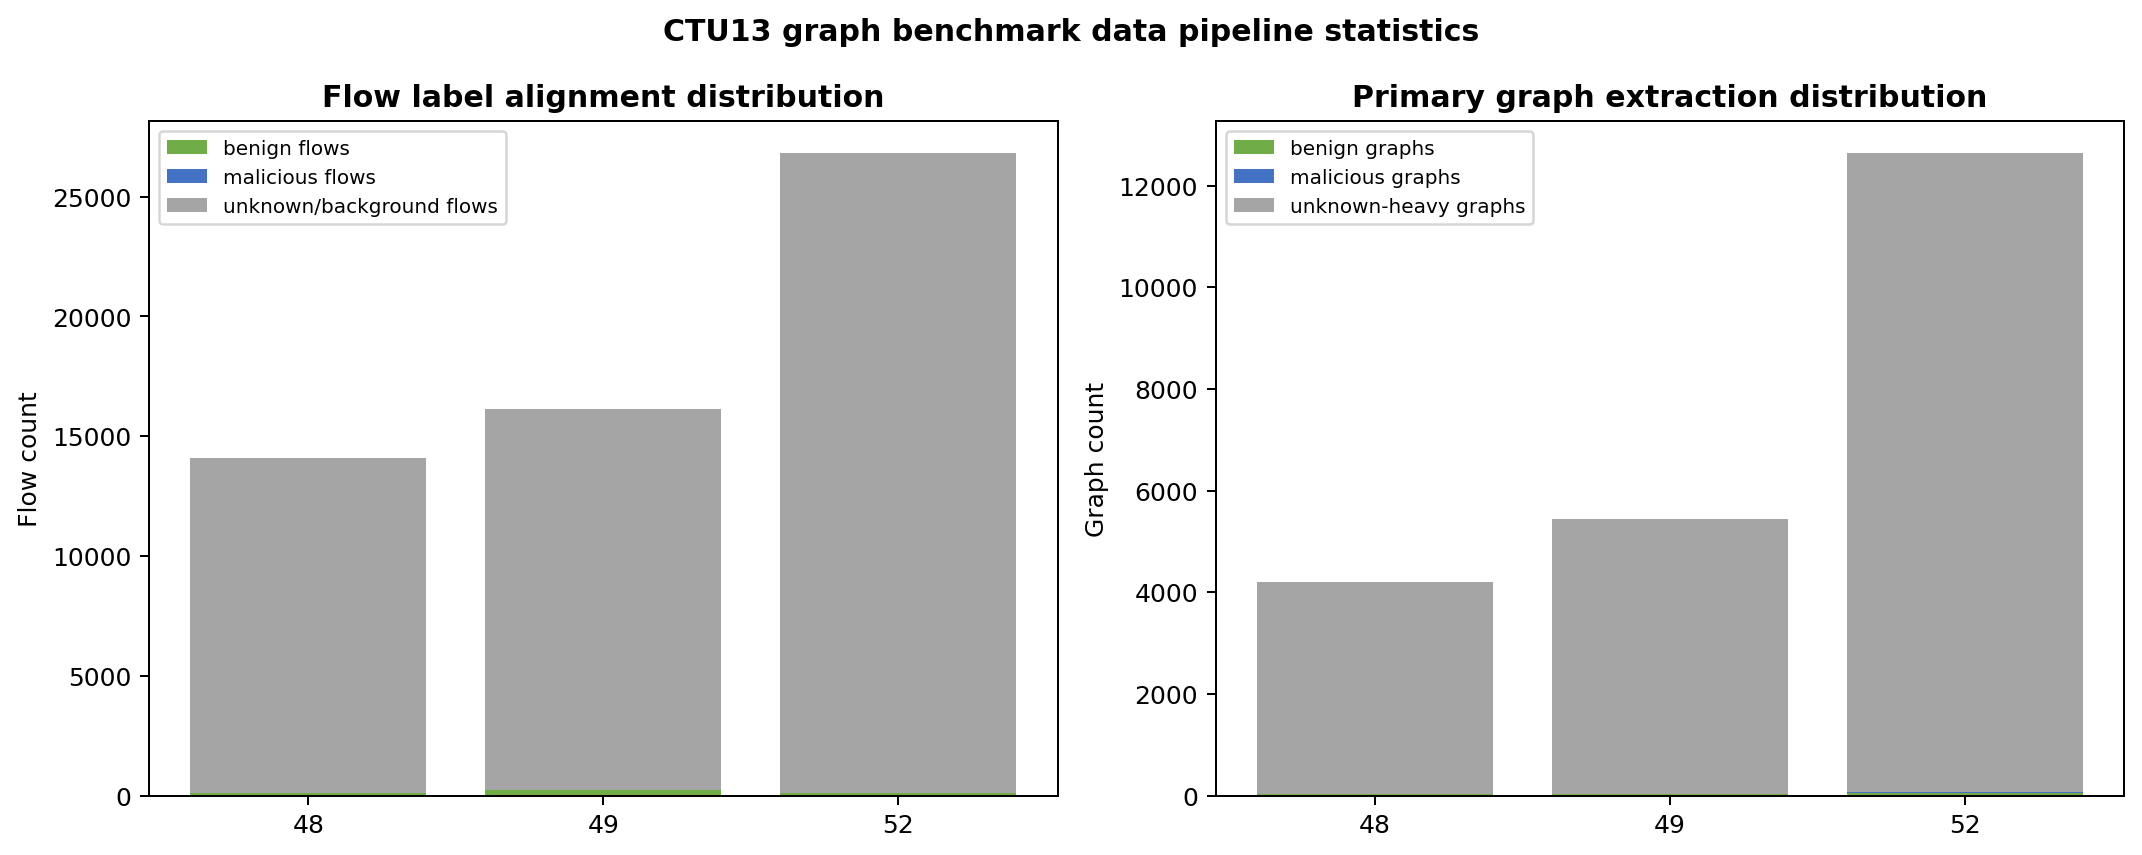
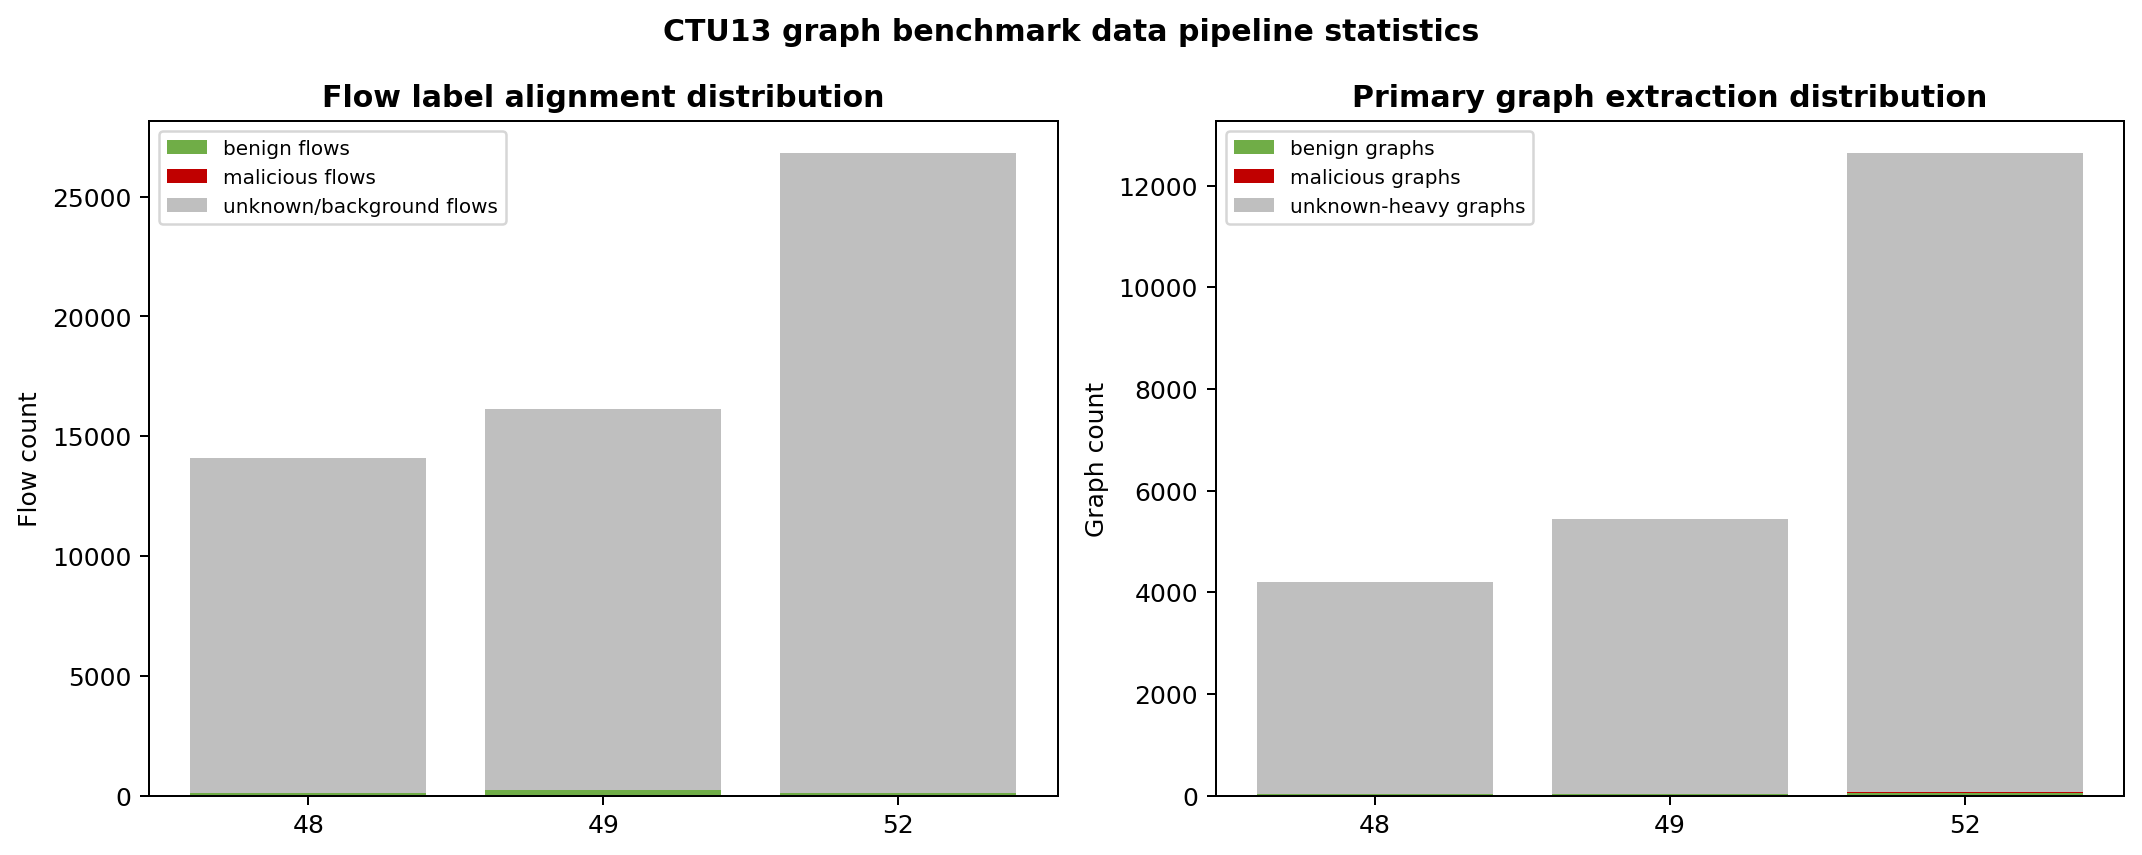
Improve report interpretation and chart semantics

diff --git a/reports/final_experiment_report.html b/reports/final_experiment_report.html
@@ -106,6 +106,9 @@ ul,ol{margin:10px 0 10px 24px;}
 </tbody></table>
 <p>图 1 显示，`merge01.csv` 主实验在 F1、ROC-AUC 和 PR-AUC 三个指标上均处于较高水平，且误差条（error bar）很短，说明三随机种子之间波动较小。</p>
 <p><img alt='merge01 summary chart' src='assets/merge01_metric_summary.png'/></p>
+<p>从指标含义来看，Accuracy（准确率）和 F1 的同时走高，说明该模型并非仅仅依赖某一类样本占优而取得表面高分。Precision（精确率）接近 1，意味着模型一旦给出 malicious 判定，其误报比例很低；Recall（召回率）保持在较高水平，则说明真实攻击样本中大部分能够被捕获。ROC-AUC 与 PR-AUC 同时处于高位，表明无论从阈值无关排序能力还是从正类检出能力角度看，模型在 `merge01.csv` 上都具有较强区分性。</p>
+<p>值得注意的是，Macro-F1 明显低于整体 F1。这通常意味着不同类别上的表现并不完全对称，或者数据分布存在明显不平衡。结合日志中可见的样本组成可以推断，`merge01.csv` 这条主结果线虽然充分证明了模型在标准流特征输入上的检测能力，但它并不意味着所有类别上的难度完全一致。因此，`merge01.csv` 更适合支撑“模型有较强分类能力”这一结论，而不宜被过度解读为“所有类别都同样容易”。</p>
+<p>从稳定性角度看，三随机种子的 F1 波动仅在很小范围内变化，这说明当前 CSV 主结果不是一次偶然的高分，而是具有可重复性。换言之，`merge01.csv` 提供的是一条较稳的性能上界参考线。</p>
 <p>对应的单种子结果如下：</p>
 <table><thead><tr>
 <th>随机种子</th>
@@ -228,6 +231,10 @@ ul,ol{margin:10px 0 10px 24px;}
 <td>heldout_q95_top1 + local_support_density</td>
 </tr>
 </tbody></table>
+<p>这些结果说明，图侧主 benchmark 在 primary 指标上相对 node-centric baseline 有显著优势。尤其是在 merged `48/49/52` 上，graph benchmark 的 F1 从 `0.2857` 提升到 `0.9412`，Recall 从 `0.1765` 提升到 `0.9412`，而 FPR 保持在 `0.0294` 不变。这一现象表明：当前图主线的价值主要不是“通过牺牲误报来换取召回”，而是在**基本不恶化 FPR 的前提下显著提升了恶意样本检出能力**。</p>
+<p>分场景来看，`scenario 52` 的提升最为显著：F1 从 `0.4000` 提升到 `1.0000`，Recall 从 `0.2500` 提升到 `1.0000`，同时 FPR 仍保持为 `0.0000`。这意味着在该场景下，图结构表示对恶意行为模式的刻画尤为有效。`scenario 49` 同样表现出明显收益，Recall 达到 `1.0000`，但 background hit ratio 也相对更高，说明这一场景中的未知背景流量更容易与 malicious-like 图模式发生重叠。`scenario 48` 的提升方向与总体结论一致，但 Recall 仍只有 `0.5000`，表明该场景下恶意样本覆盖仍然偏难。</p>
+<p>另一方面，CTU13 结果也揭示了当前方法的明确代价：虽然 primary F1 / Recall 显著提升，但 background hit ratio 同时上升。例如 merged `48/49/52` 上，background hit ratio 从 baseline 的 `0.0704` 增加到 graph benchmark 的 `0.2844`。这意味着图主线在提升恶意检出的同时，也更容易把 unknown/background 视作 malicious-like。换言之，当前图侧结果证明了链路的检测能力，但也同步暴露了背景流量重叠仍然是主要残余难点。</p>
+<p>因此，CTU13 图侧 benchmark 的意义可以概括为两点：第一，它已经足以证明从原始 PCAP 到图建模再到检测的链路是真实可行的；第二，它也清楚地说明了当前系统最突出的剩余风险不再是“主线完全抓不到 malicious”，而是“unknown/background 是否会被一并推高到 malicious-like 区域”。</p>
 <p><img alt='ctu13 benchmark summary' src='assets/ctu13_graph_benchmark_summary.png'/></p>
 <p>作为图侧 benchmark 的支持性结果文件如下：</p>
 <ul>
@@ -320,6 +327,7 @@ ul,ol{margin:10px 0 10px 24px;}
 <td>none</td>
 </tr>
 </tbody></table>
+<p>图 3 中最重要的信息，并不是 benign 或 malicious 的绝对数量，而是 unknown/background 在 flow 对齐和 primary graph extraction 后都占据了明显主导比例。这说明 CTU13 图侧 benchmark 从一开始就不是一个“干净二分类”问题，而是在极强背景干扰下进行的恶意检测问题。也正因为如此，primary 指标的大幅提升更能说明图主线具有真实价值；同时，background hit ratio 的上升也更值得被严肃对待，而不能被简单忽略为噪声。</p>
 <p>在当前正式采纳的结果集合中，没有发现与 CTU13 48/49/52 graph benchmark 一一对应的独立 PNG 曲线图文件；因此本报告对 CTU13 部分只引用真实存在的 benchmark 表和摘要文件，不补造任何额外图表。</p>
 <h2>7. 结果分析</h2>
 <h3>7.1 merge01.csv 结果的含义</h3>

diff --git a/scripts/generate_final_experiment_report.py b/scripts/generate_final_experiment_report.py
@@ -333,12 +333,12 @@ def _generate_ctu13_pipeline_chart() -> str:
 
     fig, axes = plt.subplots(1, 2, figsize=(12, 4.8), dpi=180)
     axes[0].bar(scenario_labels, benign, color="#70AD47", label="benign flows")
-    axes[0].bar(scenario_labels, malicious, bottom=benign, color="#4472C4", label="malicious flows")
+    axes[0].bar(scenario_labels, malicious, bottom=benign, color="#C00000", label="malicious flows")
     axes[0].bar(
         scenario_labels,
         unknown,
         bottom=[b + m for b, m in zip(benign, malicious)],
-        color="#A5A5A5",
+        color="#BFBFBF",
         label="unknown/background flows",
     )
     axes[0].set_title("Flow label alignment distribution", fontweight="bold")
@@ -346,12 +346,12 @@ def _generate_ctu13_pipeline_chart() -> str:
     axes[0].legend(fontsize=8)
 
     axes[1].bar(scenario_labels, graph_benign, color="#70AD47", label="benign graphs")
-    axes[1].bar(scenario_labels, graph_malicious, bottom=graph_benign, color="#4472C4", label="malicious graphs")
+    axes[1].bar(scenario_labels, graph_malicious, bottom=graph_benign, color="#C00000", label="malicious graphs")
     axes[1].bar(
         scenario_labels,
         graph_unknown,
         bottom=[b + m for b, m in zip(graph_benign, graph_malicious)],
-        color="#A5A5A5",
+        color="#BFBFBF",
         label="unknown-heavy graphs",
     )
     axes[1].set_title("Primary graph extraction distribution", fontweight="bold")
@@ -544,6 +544,10 @@ def build_report_markdown() -> str:
         "",
         f"![merge01 summary chart]({merge_summary_chart})" if merge_summary_chart else "（当前运行环境未生成额外汇总图；原因是 matplotlib 不可用。）",
         "",
+        "从指标含义来看，Accuracy（准确率）和 F1 的同时走高，说明该模型并非仅仅依赖某一类样本占优而取得表面高分。Precision（精确率）接近 1，意味着模型一旦给出 malicious 判定，其误报比例很低；Recall（召回率）保持在较高水平，则说明真实攻击样本中大部分能够被捕获。ROC-AUC 与 PR-AUC 同时处于高位，表明无论从阈值无关排序能力还是从正类检出能力角度看，模型在 `merge01.csv` 上都具有较强区分性。",
+        "值得注意的是，Macro-F1 明显低于整体 F1。这通常意味着不同类别上的表现并不完全对称，或者数据分布存在明显不平衡。结合日志中可见的样本组成可以推断，`merge01.csv` 这条主结果线虽然充分证明了模型在标准流特征输入上的检测能力，但它并不意味着所有类别上的难度完全一致。因此，`merge01.csv` 更适合支撑“模型有较强分类能力”这一结论，而不宜被过度解读为“所有类别都同样容易”。",
+        "从稳定性角度看，三随机种子的 F1 波动仅在很小范围内变化，这说明当前 CSV 主结果不是一次偶然的高分，而是具有可重复性。换言之，`merge01.csv` 提供的是一条较稳的性能上界参考线。",
+        "",
         "对应的单种子结果如下：",
         "",
         _extract_merge01_seed_overview(merge_row),
@@ -566,6 +570,11 @@ def build_report_markdown() -> str:
         "",
         _ctu13_results_table(ctu13_rows),
         "",
+        "这些结果说明，图侧主 benchmark 在 primary 指标上相对 node-centric baseline 有显著优势。尤其是在 merged `48/49/52` 上，graph benchmark 的 F1 从 `0.2857` 提升到 `0.9412`，Recall 从 `0.1765` 提升到 `0.9412`，而 FPR 保持在 `0.0294` 不变。这一现象表明：当前图主线的价值主要不是“通过牺牲误报来换取召回”，而是在**基本不恶化 FPR 的前提下显著提升了恶意样本检出能力**。",
+        "分场景来看，`scenario 52` 的提升最为显著：F1 从 `0.4000` 提升到 `1.0000`，Recall 从 `0.2500` 提升到 `1.0000`，同时 FPR 仍保持为 `0.0000`。这意味着在该场景下，图结构表示对恶意行为模式的刻画尤为有效。`scenario 49` 同样表现出明显收益，Recall 达到 `1.0000`，但 background hit ratio 也相对更高，说明这一场景中的未知背景流量更容易与 malicious-like 图模式发生重叠。`scenario 48` 的提升方向与总体结论一致，但 Recall 仍只有 `0.5000`，表明该场景下恶意样本覆盖仍然偏难。",
+        "另一方面，CTU13 结果也揭示了当前方法的明确代价：虽然 primary F1 / Recall 显著提升，但 background hit ratio 同时上升。例如 merged `48/49/52` 上，background hit ratio 从 baseline 的 `0.0704` 增加到 graph benchmark 的 `0.2844`。这意味着图主线在提升恶意检出的同时，也更容易把 unknown/background 视作 malicious-like。换言之，当前图侧结果证明了链路的检测能力，但也同步暴露了背景流量重叠仍然是主要残余难点。",
+        "因此，CTU13 图侧 benchmark 的意义可以概括为两点：第一，它已经足以证明从原始 PCAP 到图建模再到检测的链路是真实可行的；第二，它也清楚地说明了当前系统最突出的剩余风险不再是“主线完全抓不到 malicious”，而是“unknown/background 是否会被一并推高到 malicious-like 区域”。",
+        "",
         f"![ctu13 benchmark summary]({ctu13_benchmark_chart})" if ctu13_benchmark_chart else "（当前运行环境未生成 CTU13 汇总图；原因是 matplotlib 不可用。）",
         "",
         "作为图侧 benchmark 的支持性结果文件如下：",
@@ -585,6 +594,8 @@ def build_report_markdown() -> str:
         "进入 primary graph extraction 前的图统计为：",
         "",
         _read_text(CTU13_EXTRACTION_MD).strip(),
+        "",
+        "图 3 中最重要的信息，并不是 benign 或 malicious 的绝对数量，而是 unknown/background 在 flow 对齐和 primary graph extraction 后都占据了明显主导比例。这说明 CTU13 图侧 benchmark 从一开始就不是一个“干净二分类”问题，而是在极强背景干扰下进行的恶意检测问题。也正因为如此，primary 指标的大幅提升更能说明图主线具有真实价值；同时，background hit ratio 的上升也更值得被严肃对待，而不能被简单忽略为噪声。",
         "",
         "在当前正式采纳的结果集合中，没有发现与 CTU13 48/49/52 graph benchmark 一一对应的独立 PNG 曲线图文件；因此本报告对 CTU13 部分只引用真实存在的 benchmark 表和摘要文件，不补造任何额外图表。",
         "",

diff --git a/reports/final_experiment_report.md b/reports/final_experiment_report.md
@@ -72,6 +72,10 @@
 
 ![merge01 summary chart](assets/merge01_metric_summary.png)
 
+从指标含义来看，Accuracy（准确率）和 F1 的同时走高，说明该模型并非仅仅依赖某一类样本占优而取得表面高分。Precision（精确率）接近 1，意味着模型一旦给出 malicious 判定，其误报比例很低；Recall（召回率）保持在较高水平，则说明真实攻击样本中大部分能够被捕获。ROC-AUC 与 PR-AUC 同时处于高位，表明无论从阈值无关排序能力还是从正类检出能力角度看，模型在 `merge01.csv` 上都具有较强区分性。
+值得注意的是，Macro-F1 明显低于整体 F1。这通常意味着不同类别上的表现并不完全对称，或者数据分布存在明显不平衡。结合日志中可见的样本组成可以推断，`merge01.csv` 这条主结果线虽然充分证明了模型在标准流特征输入上的检测能力，但它并不意味着所有类别上的难度完全一致。因此，`merge01.csv` 更适合支撑“模型有较强分类能力”这一结论，而不宜被过度解读为“所有类别都同样容易”。
+从稳定性角度看，三随机种子的 F1 波动仅在很小范围内变化，这说明当前 CSV 主结果不是一次偶然的高分，而是具有可重复性。换言之，`merge01.csv` 提供的是一条较稳的性能上界参考线。
+
 对应的单种子结果如下：
 
 | 随机种子 | Accuracy | Precision | Recall | F1 | ROC-AUC | PR-AUC |
@@ -111,6 +115,11 @@ CSV 主结果对应的真实图表路径如下：
 | scenario 52 | 0.4000 | 1.0000 | 0.2500 | 1.0000 | 0.0000 | 0.0000 | 0.1183 | 0.2546 | heldout_q99_top5 + local_support_density |
 | merged 48/49/52 | 0.2857 | 0.9412 | 0.1765 | 0.9412 | 0.0294 | 0.0294 | 0.0704 | 0.2844 | heldout_q95_top1 + local_support_density |
 
+这些结果说明，图侧主 benchmark 在 primary 指标上相对 node-centric baseline 有显著优势。尤其是在 merged `48/49/52` 上，graph benchmark 的 F1 从 `0.2857` 提升到 `0.9412`，Recall 从 `0.1765` 提升到 `0.9412`，而 FPR 保持在 `0.0294` 不变。这一现象表明：当前图主线的价值主要不是“通过牺牲误报来换取召回”，而是在**基本不恶化 FPR 的前提下显著提升了恶意样本检出能力**。
+分场景来看，`scenario 52` 的提升最为显著：F1 从 `0.4000` 提升到 `1.0000`，Recall 从 `0.2500` 提升到 `1.0000`，同时 FPR 仍保持为 `0.0000`。这意味着在该场景下，图结构表示对恶意行为模式的刻画尤为有效。`scenario 49` 同样表现出明显收益，Recall 达到 `1.0000`，但 background hit ratio 也相对更高，说明这一场景中的未知背景流量更容易与 malicious-like 图模式发生重叠。`scenario 48` 的提升方向与总体结论一致，但 Recall 仍只有 `0.5000`，表明该场景下恶意样本覆盖仍然偏难。
+另一方面，CTU13 结果也揭示了当前方法的明确代价：虽然 primary F1 / Recall 显著提升，但 background hit ratio 同时上升。例如 merged `48/49/52` 上，background hit ratio 从 baseline 的 `0.0704` 增加到 graph benchmark 的 `0.2844`。这意味着图主线在提升恶意检出的同时，也更容易把 unknown/background 视作 malicious-like。换言之，当前图侧结果证明了链路的检测能力，但也同步暴露了背景流量重叠仍然是主要残余难点。
+因此，CTU13 图侧 benchmark 的意义可以概括为两点：第一，它已经足以证明从原始 PCAP 到图建模再到检测的链路是真实可行的；第二，它也清楚地说明了当前系统最突出的剩余风险不再是“主线完全抓不到 malicious”，而是“unknown/background 是否会被一并推高到 malicious-like 区域”。
+
 ![ctu13 benchmark summary](assets/ctu13_graph_benchmark_summary.png)
 
 作为图侧 benchmark 的支持性结果文件如下：
@@ -142,6 +151,8 @@ CSV 主结果对应的真实图表路径如下：
 | 48 | 5 | per_src_ip_within_window | 4199 | 26 | 2 | 4171 | none |
 | 49 | 5 | per_src_ip_within_window | 5431 | 33 | 3 | 5395 | none |
 | 52 | 2 | per_src_ip_within_window | 12639 | 50 | 12 | 12577 | none |
+
+图 3 中最重要的信息，并不是 benign 或 malicious 的绝对数量，而是 unknown/background 在 flow 对齐和 primary graph extraction 后都占据了明显主导比例。这说明 CTU13 图侧 benchmark 从一开始就不是一个“干净二分类”问题，而是在极强背景干扰下进行的恶意检测问题。也正因为如此，primary 指标的大幅提升更能说明图主线具有真实价值；同时，background hit ratio 的上升也更值得被严肃对待，而不能被简单忽略为噪声。
 
 在当前正式采纳的结果集合中，没有发现与 CTU13 48/49/52 graph benchmark 一一对应的独立 PNG 曲线图文件；因此本报告对 CTU13 部分只引用真实存在的 benchmark 表和摘要文件，不补造任何额外图表。
 
